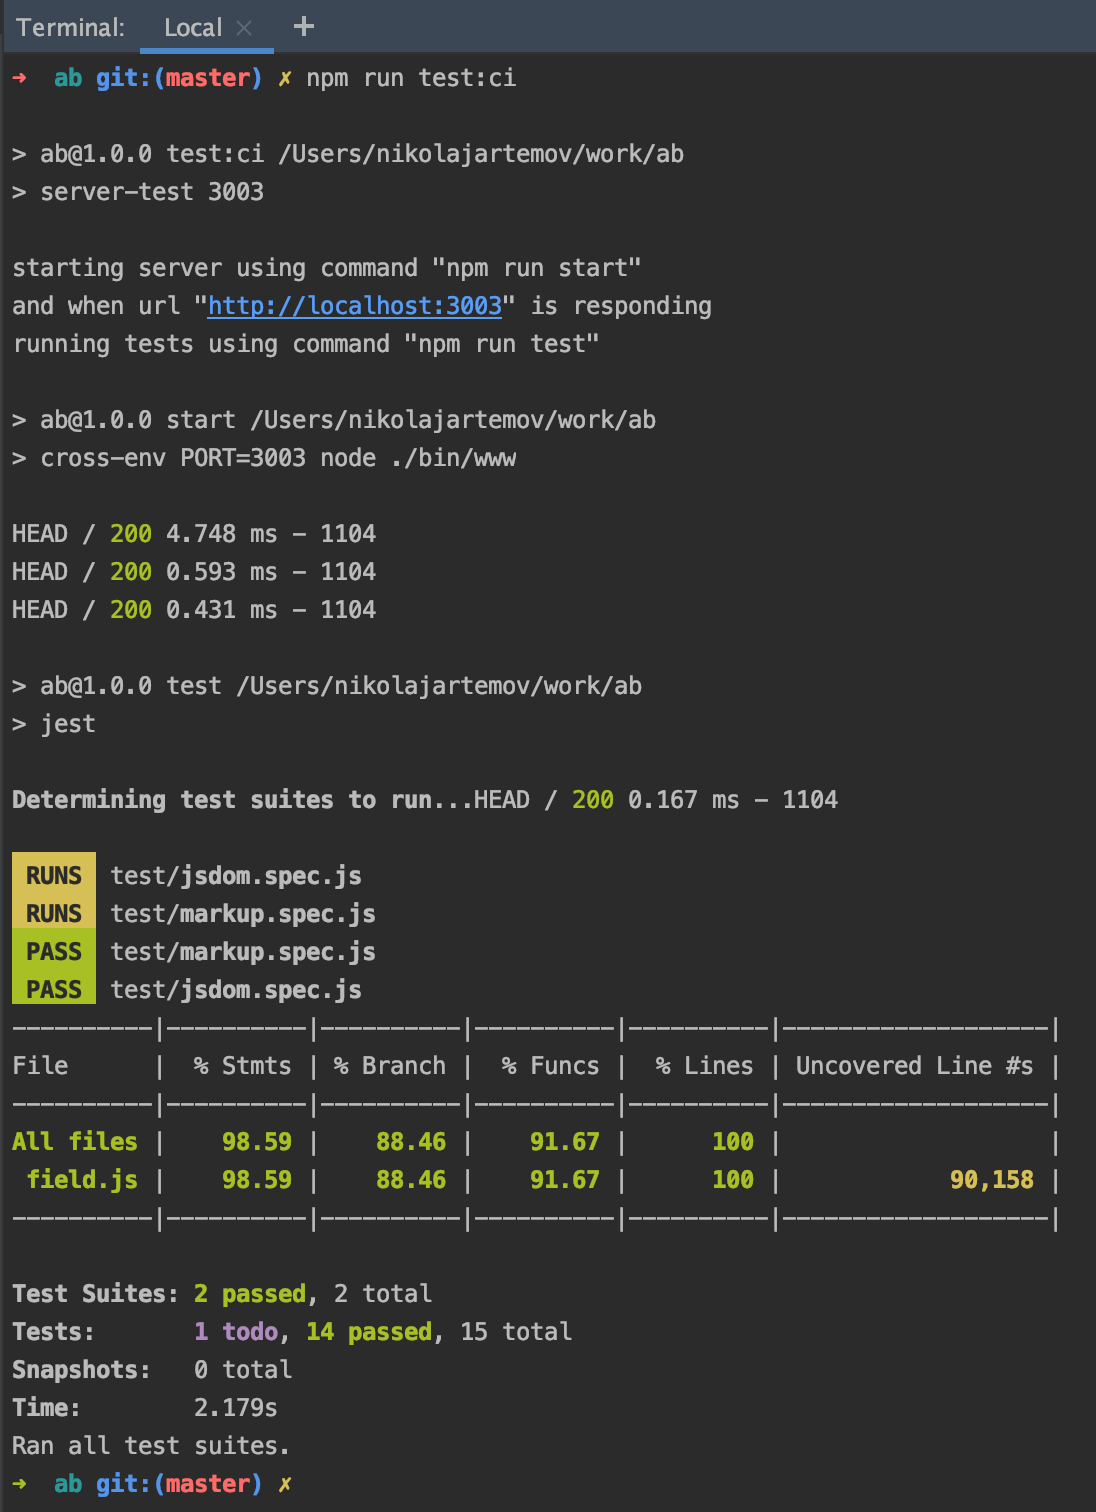
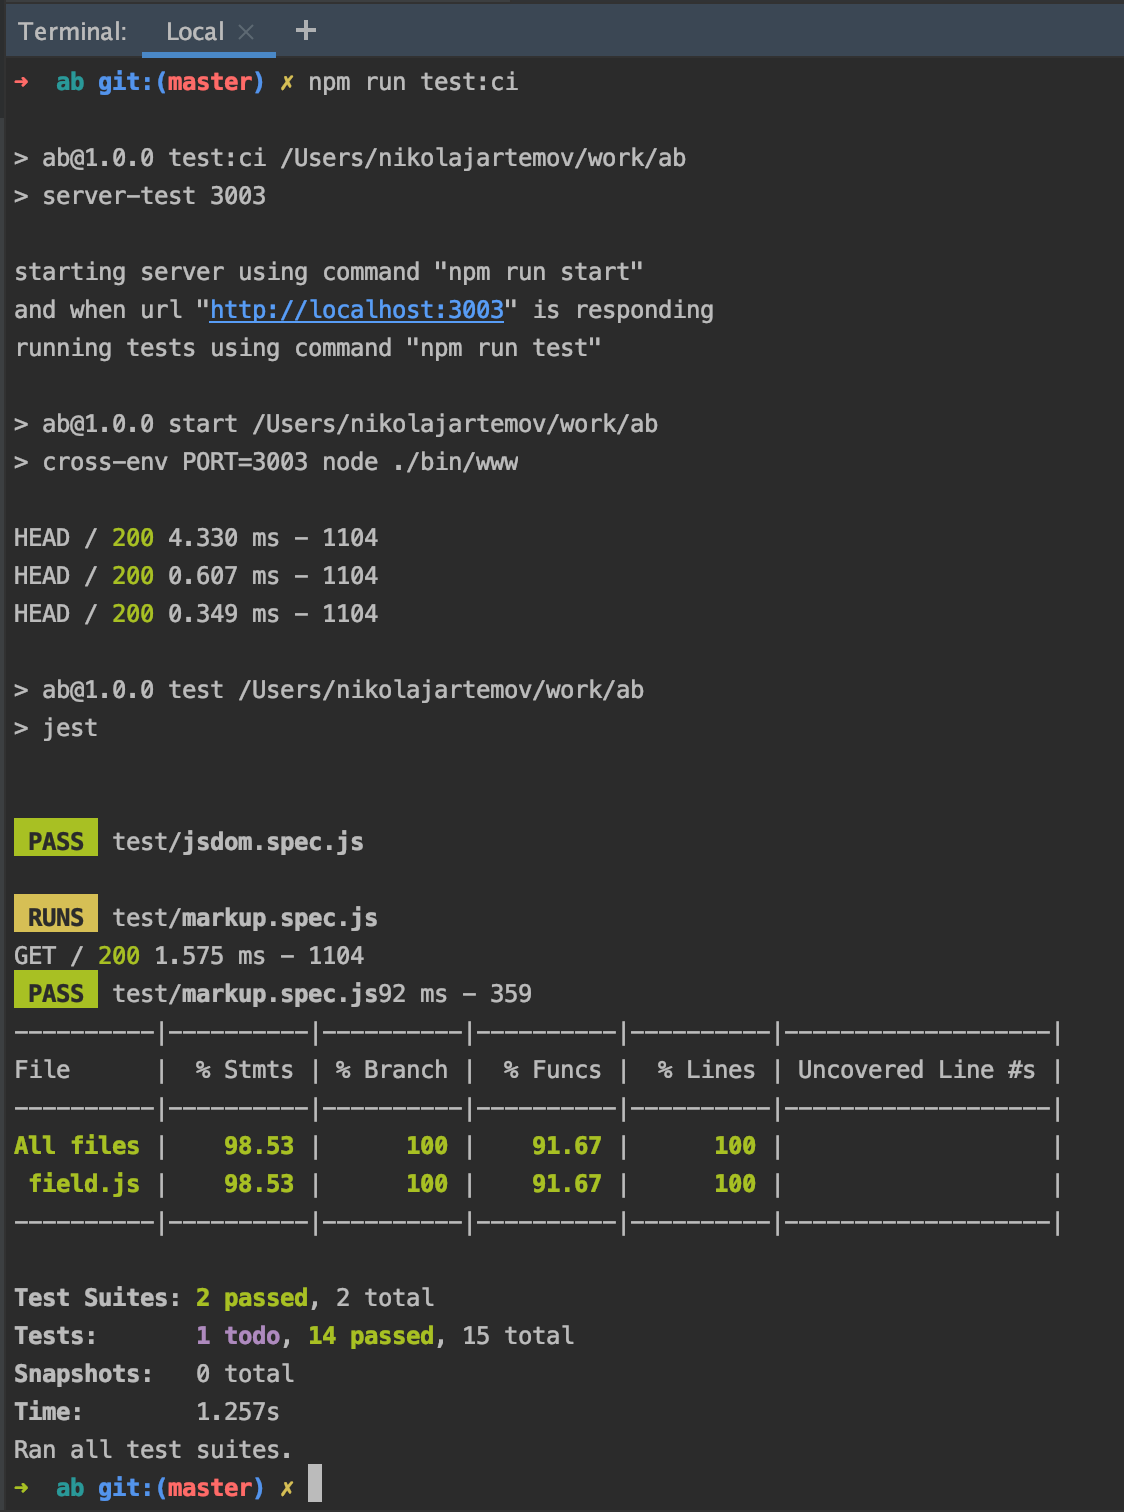
updated

diff --git a/coverage/lcov-report/field.js.html b/coverage/lcov-report/field.js.html
@@ -20,14 +20,14 @@
     </h1>
     <div class='clearfix'>
       <div class='fl pad1y space-right2'>
-        <span class="strong">98.59% </span>
+        <span class="strong">98.53% </span>
         <span class="quiet">Statements</span>
-        <span class='fraction'>70/71</span>
+        <span class='fraction'>67/68</span>
       </div>
       <div class='fl pad1y space-right2'>
-        <span class="strong">88.46% </span>
+        <span class="strong">100% </span>
         <span class="quiet">Branches</span>
-        <span class='fraction'>23/26</span>
+        <span class='fraction'>20/20</span>
       </div>
       <div class='fl pad1y space-right2'>
         <span class="strong">91.67% </span>
@@ -37,7 +37,7 @@
       <div class='fl pad1y space-right2'>
         <span class="strong">100% </span>
         <span class="quiet">Lines</span>
-        <span class='fraction'>61/61</span>
+        <span class='fraction'>58/58</span>
       </div>
     </div>
     <p class="quiet">
@@ -214,7 +214,8 @@
 <a name='L166'></a><a href='#L166'>166</a>
 <a name='L167'></a><a href='#L167'>167</a>
 <a name='L168'></a><a href='#L168'>168</a>
-<a name='L169'></a><a href='#L169'>169</a></td><td class="line-coverage quiet"><span class="cline-any cline-neutral">&nbsp;</span>
+<a name='L169'></a><a href='#L169'>169</a>
+<a name='L170'></a><a href='#L170'>170</a></td><td class="line-coverage quiet"><span class="cline-any cline-neutral">&nbsp;</span>
 <span class="cline-any cline-yes">1x</span>
 <span class="cline-any cline-yes">1x</span>
 <span class="cline-any cline-yes">1x</span>
@@ -287,10 +288,10 @@
 <span class="cline-any cline-neutral">&nbsp;</span>
 <span class="cline-any cline-neutral">&nbsp;</span>
 <span class="cline-any cline-neutral">&nbsp;</span>
-<span class="cline-any cline-yes">11x</span>
-<span class="cline-any cline-yes">11x</span>
-<span class="cline-any cline-yes">11x</span>
-<span class="cline-any cline-yes">11x</span>
+<span class="cline-any cline-yes">12x</span>
+<span class="cline-any cline-yes">12x</span>
+<span class="cline-any cline-yes">12x</span>
+<span class="cline-any cline-yes">12x</span>
 <span class="cline-any cline-neutral">&nbsp;</span>
 <span class="cline-any cline-neutral">&nbsp;</span>
 <span class="cline-any cline-neutral">&nbsp;</span>
@@ -303,7 +304,8 @@
 <span class="cline-any cline-yes">2x</span>
 <span class="cline-any cline-yes">2x</span>
 <span class="cline-any cline-yes">2x</span>
-<span class="cline-any cline-yes">2x</span>
+<span class="cline-any cline-neutral">&nbsp;</span>
+<span class="cline-any cline-neutral">&nbsp;</span>
 <span class="cline-any cline-neutral">&nbsp;</span>
 <span class="cline-any cline-neutral">&nbsp;</span>
 <span class="cline-any cline-neutral">&nbsp;</span>
@@ -371,8 +373,8 @@
 <span class="cline-any cline-neutral">&nbsp;</span>
 <span class="cline-any cline-neutral">&nbsp;</span>
 <span class="cline-any cline-neutral">&nbsp;</span>
-<span class="cline-any cline-yes">1x</span>
-<span class="cline-any cline-yes">1x</span>
+<span class="cline-any cline-neutral">&nbsp;</span>
+<span class="cline-any cline-neutral">&nbsp;</span>
 <span class="cline-any cline-neutral">&nbsp;</span>
 <span class="cline-any cline-neutral">&nbsp;</span>
 <span class="cline-any cline-neutral">&nbsp;</span>
@@ -471,7 +473,8 @@ function onClickHandler(e, table) {
   const updatedCell = toggleCell(cell)
   updateSiblingCell(table, updatedCell)
   const res = checkWin(table)
-  res &amp;&amp; res.gameOver &amp;&amp; <span class="branch-2 cbranch-no" title="branch not covered" >alert(`Winner: ${res.winner}`) </span>&amp;&amp; <span class="branch-3 cbranch-no" title="branch not covered" >initGame(table.rows.length)</span>
+  // istanbul ignore next
+  res &amp;&amp; res.gameOver &amp;&amp; alert(`Winner: ${res.winner}`) &amp;&amp; initGame(table.rows.length)
 }
 &nbsp;
 /**
@@ -538,8 +541,8 @@ function updateSiblingCell(table = document.querySelector('table'), cell) {
   toggleByCell(table, bottom)
 }
 &nbsp;
-&nbsp;
-<span class="missing-if-branch" title="else path not taken" >E</span>if (typeof exports !== 'undefined') {
+/* istanbul ignore next */
+if (typeof exports !== 'undefined') {
   module.exports = {
     initGame,
     renderTable,
@@ -556,7 +559,7 @@ function updateSiblingCell(table = document.querySelector('table'), cell) {
 </div><!-- /wrapper -->
 <div class='footer quiet pad2 space-top1 center small'>
   Code coverage
-  generated by <a href="https://istanbul.js.org/" target="_blank">istanbul</a> at Sun Oct 13 2019 11:54:05 GMT+0300 (Eastern European Summer Time)
+  generated by <a href="https://istanbul.js.org/" target="_blank">istanbul</a> at Sun Oct 13 2019 13:12:01 GMT+0300 (Eastern European Summer Time)
 </div>
 </div>
 <script src="prettify.js"></script>

diff --git a/coverage/lcov-report/index.html b/coverage/lcov-report/index.html
@@ -20,14 +20,14 @@
     </h1>
     <div class='clearfix'>
       <div class='fl pad1y space-right2'>
-        <span class="strong">98.59% </span>
+        <span class="strong">98.53% </span>
         <span class="quiet">Statements</span>
-        <span class='fraction'>70/71</span>
+        <span class='fraction'>67/68</span>
       </div>
       <div class='fl pad1y space-right2'>
-        <span class="strong">88.46% </span>
+        <span class="strong">100% </span>
         <span class="quiet">Branches</span>
-        <span class='fraction'>23/26</span>
+        <span class='fraction'>20/20</span>
       </div>
       <div class='fl pad1y space-right2'>
         <span class="strong">91.67% </span>
@@ -37,7 +37,7 @@
       <div class='fl pad1y space-right2'>
         <span class="strong">100% </span>
         <span class="quiet">Lines</span>
-        <span class='fraction'>61/61</span>
+        <span class='fraction'>58/58</span>
       </div>
     </div>
     <p class="quiet">
@@ -63,15 +63,15 @@
 </thead>
 <tbody><tr>
 	<td class="file high" data-value="field.js"><a href="field.js.html">field.js</a></td>
-	<td data-value="98.59" class="pic high"><div class="chart"><div class="cover-fill" style="width: 98%;"></div><div class="cover-empty" style="width:2%;"></div></div></td>
-	<td data-value="98.59" class="pct high">98.59%</td>
-	<td data-value="71" class="abs high">70/71</td>
-	<td data-value="88.46" class="pct high">88.46%</td>
-	<td data-value="26" class="abs high">23/26</td>
+	<td data-value="98.53" class="pic high"><div class="chart"><div class="cover-fill" style="width: 98%;"></div><div class="cover-empty" style="width:2%;"></div></div></td>
+	<td data-value="98.53" class="pct high">98.53%</td>
+	<td data-value="68" class="abs high">67/68</td>
+	<td data-value="100" class="pct high">100%</td>
+	<td data-value="20" class="abs high">20/20</td>
 	<td data-value="91.67" class="pct high">91.67%</td>
 	<td data-value="12" class="abs high">11/12</td>
 	<td data-value="100" class="pct high">100%</td>
-	<td data-value="61" class="abs high">61/61</td>
+	<td data-value="58" class="abs high">58/58</td>
 	</tr>
 
 </tbody>
@@ -80,7 +80,7 @@
 </div><!-- /wrapper -->
 <div class='footer quiet pad2 space-top1 center small'>
   Code coverage
-  generated by <a href="https://istanbul.js.org/" target="_blank">istanbul</a> at Sun Oct 13 2019 11:54:05 GMT+0300 (Eastern European Summer Time)
+  generated by <a href="https://istanbul.js.org/" target="_blank">istanbul</a> at Sun Oct 13 2019 13:12:01 GMT+0300 (Eastern European Summer Time)
 </div>
 </div>
 <script src="prettify.js"></script>

diff --git a/src/public/js/field.js b/src/public/js/field.js
@@ -87,6 +87,7 @@ function onClickHandler(e, table) {
   const updatedCell = toggleCell(cell)
   updateSiblingCell(table, updatedCell)
   const res = checkWin(table)
+  // istanbul ignore next
   res && res.gameOver && alert(`Winner: ${res.winner}`) && initGame(table.rows.length)
 }
 
@@ -154,7 +155,7 @@ function updateSiblingCell(table = document.querySelector('table'), cell) {
   toggleByCell(table, bottom)
 }
 
-
+/* istanbul ignore next */
 if (typeof exports !== 'undefined') {
   module.exports = {
     initGame,
